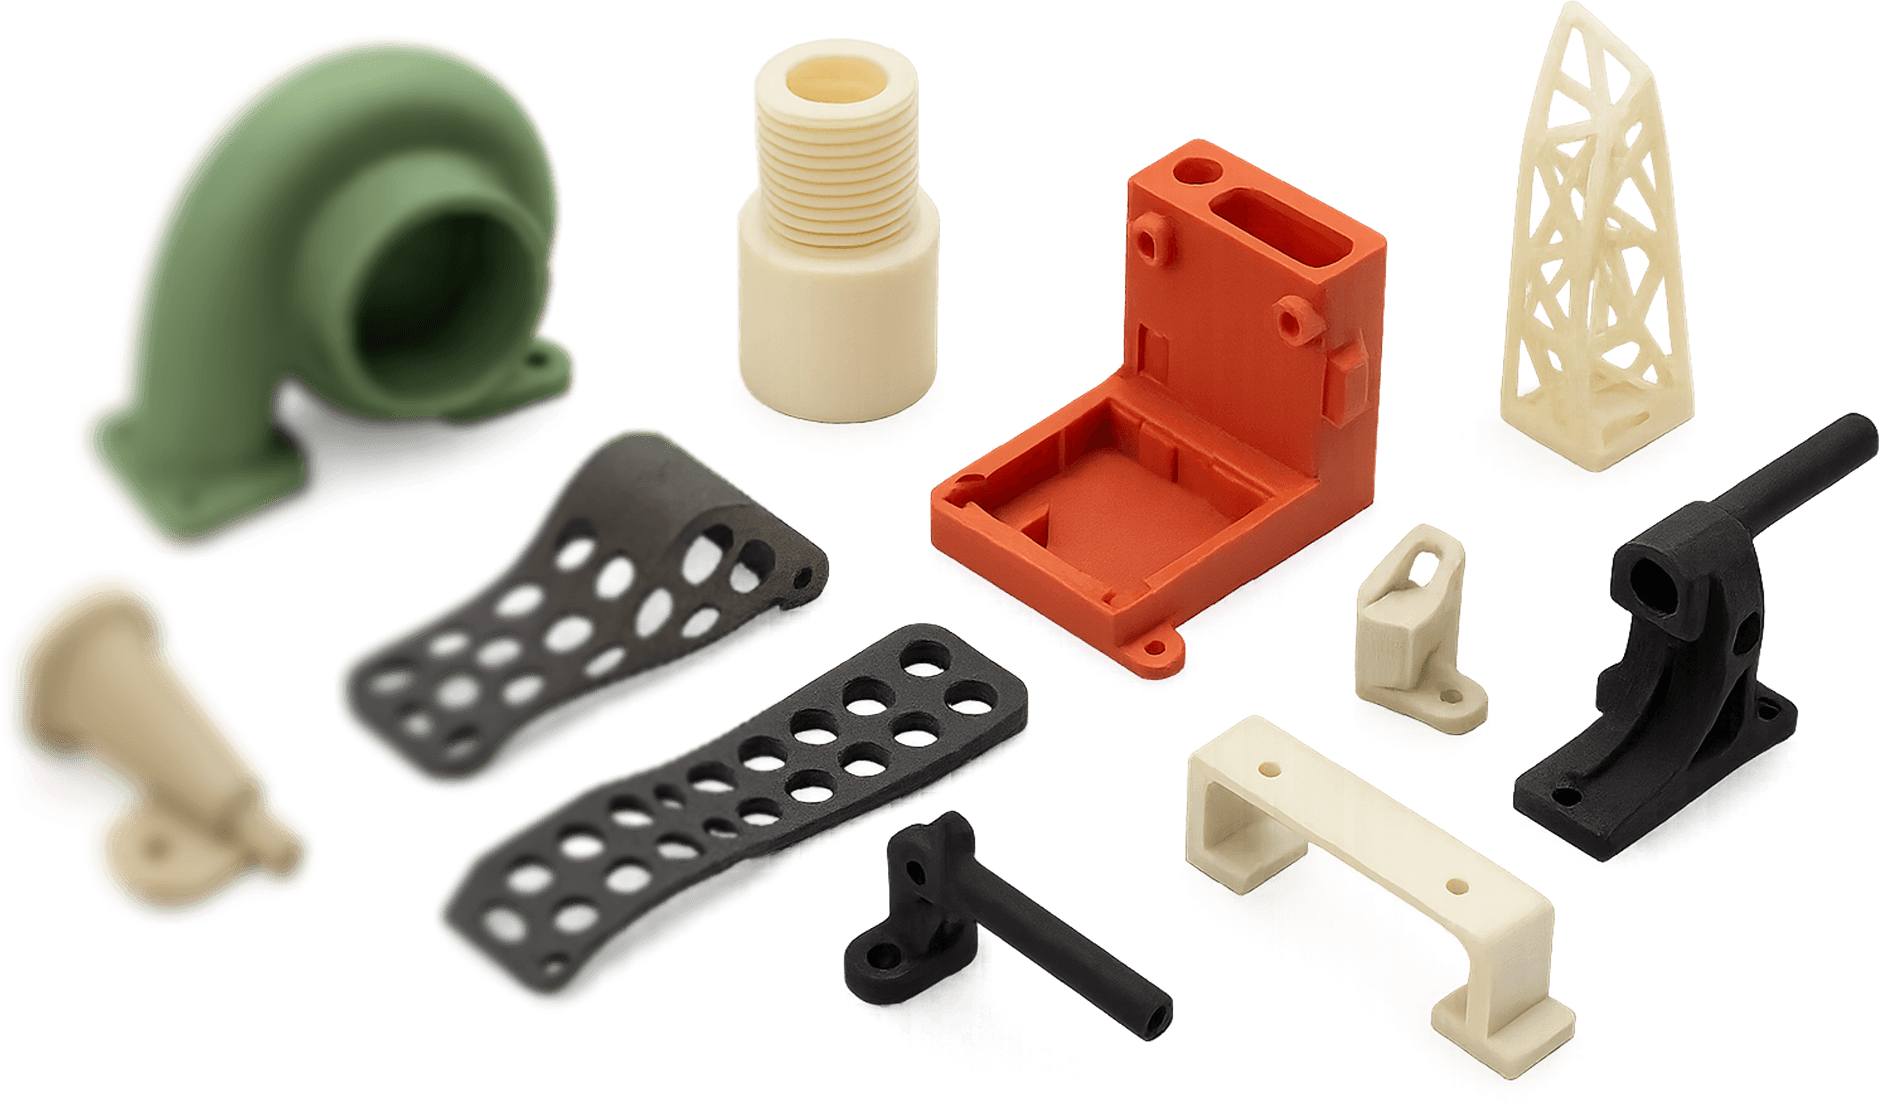
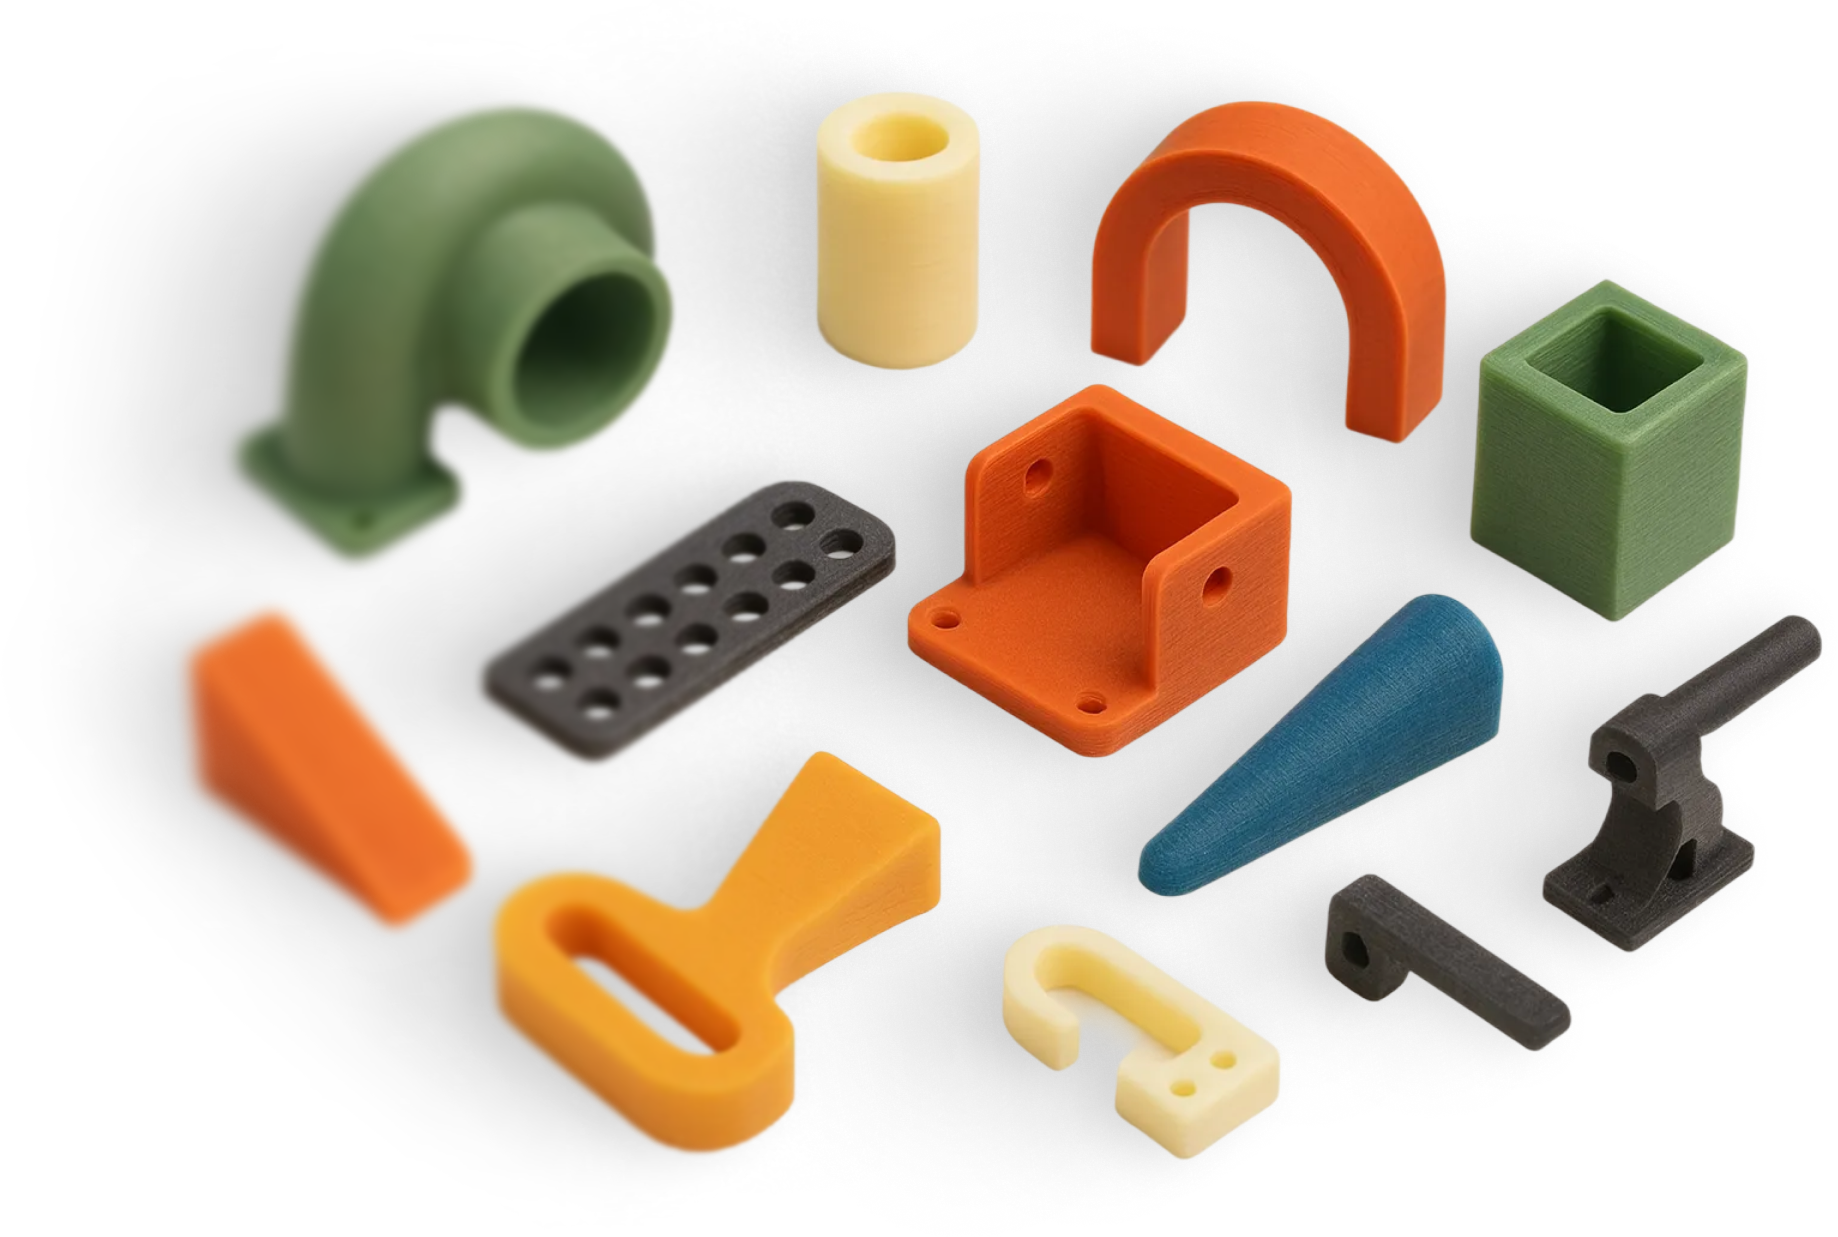
fix

diff --git a/printing3D/index.html b/printing3D/index.html
@@ -218,7 +218,7 @@
                         We know the process inside and out—from digital file to factory floor.<br />
                         That means fewer failed prints, smarter designs, and better results.
                      </p>
-                     <img src="../img/printing3d.png" class="center" alt="" />
+                     <img src="../img/printing3d-2.png" class="center" alt="" />
                   </div>
                </div>
             </section>

diff --git a/css/printing3D.css b/css/printing3D.css
@@ -157,8 +157,11 @@
    transform: translate(-4%, 213%);
 }
 #DesignPrint .title img.center {
-   max-width: 940px;
-   margin: 0 auto;
+   /* max-width: 940px;
+   margin: 0 auto; */
+   min-width: 72%;
+   max-width: 940px !important;
+   margin: -8% auto -18%;
 }
 
 #banner3dprint {
